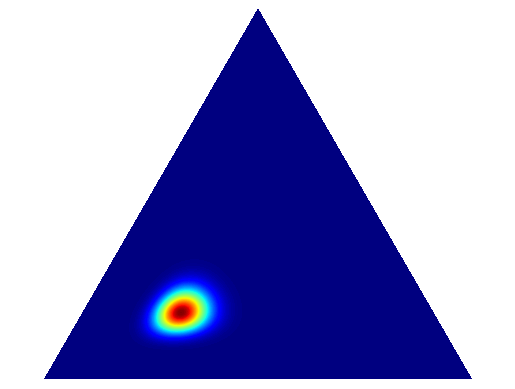
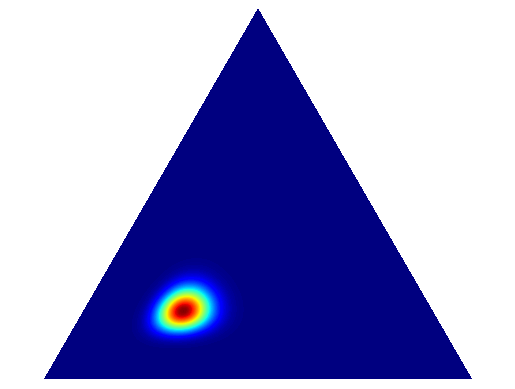
adding options for bayesian or frequentist approach

Changed region(s): [[0.2485, 0.7095, 0.435, 0.8946]]

diff --git a/Breakfast.py b/Breakfast.py
@@ -125,14 +125,20 @@ def plot_bootstrapping(df):
 
 # Plot beta function
 def plot_beta(a, b, title, color='black'):
-    x = np.linspace(0, 1, 100)
+    x = np.linspace(0, 1, 1000)
     y = beta.pdf(x, a, b)
+    
+
+    maximum = max(y)
+    x_maximum = round(list(y).index(maximum) / 1000, 2)
 
     plt.clf()
     plt.plot(x, y, color=color)
+    plt.plot(x_maximum, maximum, 'ro', label=f'Max: ({x_maximum}, {round(maximum, 2)})')
     plt.title(title)
     plt.xlabel("Probability")
     plt.ylabel("Probability Density")
+    plt.legend()
     st.pyplot(plt)
 
 def main():
@@ -178,20 +184,35 @@ def main():
                 When focusing on blueberry pancakes, an order of a blueberry pancake, for example, would be considered a success, \
                 while any other pancake is a 'failure.'")
     
-    st.write("Our current prior belief (from the data) is in a 58:19:23 ratio, which we could incorporate into our beta distributions.")
+    st.write("Anecdotally, we believe in a 6:2:1 ratio of blueberry:plain:chocolate, which we could incorporate into our beta distributions under a Bayesian approach. With the frequentist approach, we begin with a uniform distribution.")
     
     st.write("Check out the beta distributions of the different types of pancakes!")
 
-    plot_beta(118, 85, "Blueberry Pancakes", color='#464196')
-    plot_beta(47, 156, "Plain Pancakes")
-    plot_beta(38, 165, "Chocolate Pancakes", color='#7B3F00')
+    beta_select = st.segmented_control("Beta Approach", ["Bayesian", "Frequentist"], selection_mode="single", default="Bayesian")
+    initial_blue, initial_plain, initial_chocolate, initial_blue_f, initial_plain_f, initial_chocolate_f = 1,1,1,1,1,1
+    if beta_select == "Bayesian":
+        strength = st.slider("Strength of belief in prior distribution", 1, 100, 1)
+        initial_blue = 6 * strength
+        initial_plain = 2 * strength
+        initial_chocolate = 1 * strength
+        initial_blue_f = initial_plain + initial_chocolate
+        initial_plain_f = initial_blue + initial_chocolate
+        initial_chocolate_f = initial_blue + initial_plain
+
+    plot_beta(60 + initial_blue, 43 + initial_blue_f, "Blueberry Pancakes", color='#464196')
+    plot_beta(24 + initial_plain, 81 + initial_plain_f, "Plain Pancakes")
+    plot_beta(19 + initial_chocolate, 84 + initial_chocolate_f, "Chocolate Pancakes", color='#7B3F00')
 
     st.write("The Dirichlet distribution can unify these probabilities into one: essentially, it is a beta distirbution \
                 for multinomials. Rather than treating these orders as binomials, we can treat them as multinomials, with \
                 certain probabilities of ordering either a blueberry, plain, or chocolate pancake.")
+    
+    dirichlet_mode = st.segmented_control("Dirichlet Approach", ["Bayesian", "Frequentist"], selection_mode="single", default="Bayesian", key="dirichlet_mode")
     l, c, r = st.columns([1,4,1])
+    imagefile = "dirichlet_dist.png" if dirichlet_mode == "Frequentist" else "dirichlet_dist_bayesian.png"
     with c:
-        st.image('dirichlet_dist.png')
+        with st.spinner(''):
+            st.image(imagefile)
     st.write('"Hotter" colors represent higher probability densities, and the probabilities increase from left to right on each \
                 side of the triangle. From the left-most side counter-clockwise, the sides are blueberry, plain, and chocolate pancakes. ')
     st.markdown('*Image created from code provided by Thomas Boggs (tboggs on GitHub)')
@@ -199,11 +220,18 @@ def main():
     st.divider()
 
     st.subheader('Preferred Pancake Predictor', anchor=False)
+    
+    predictor_mode = st.segmented_control("Which approach would you like to use?", ["Bayesian", "Frequentist"], selection_mode="single", default="Bayesian", key="predictor_mode")
+    inits = {"b": 1, "p": 1, "c": 1}
+    if predictor_mode == "Bayesian":
+        predictor_strength = st.slider("Strength of belief in prior distribution", 1, 100, 1, key="predictor_strength")
+        inits = {"b": 6 * predictor_strength, "p": 2 * predictor_strength, "c": 1 * predictor_strength}
+
     n_pancakes = st.number_input(
         "How many total pancakes can you make?", value=None, placeholder="Type a number..."
     )
     if n_pancakes:
-        alpha = [61, 25, 20]
+        alpha = [60 + inits["b"], 24 + inits["p"], 19 + inits["c"]]
 
         sample_p = dirichlet.rvs(alpha, size=1)[0]
 
